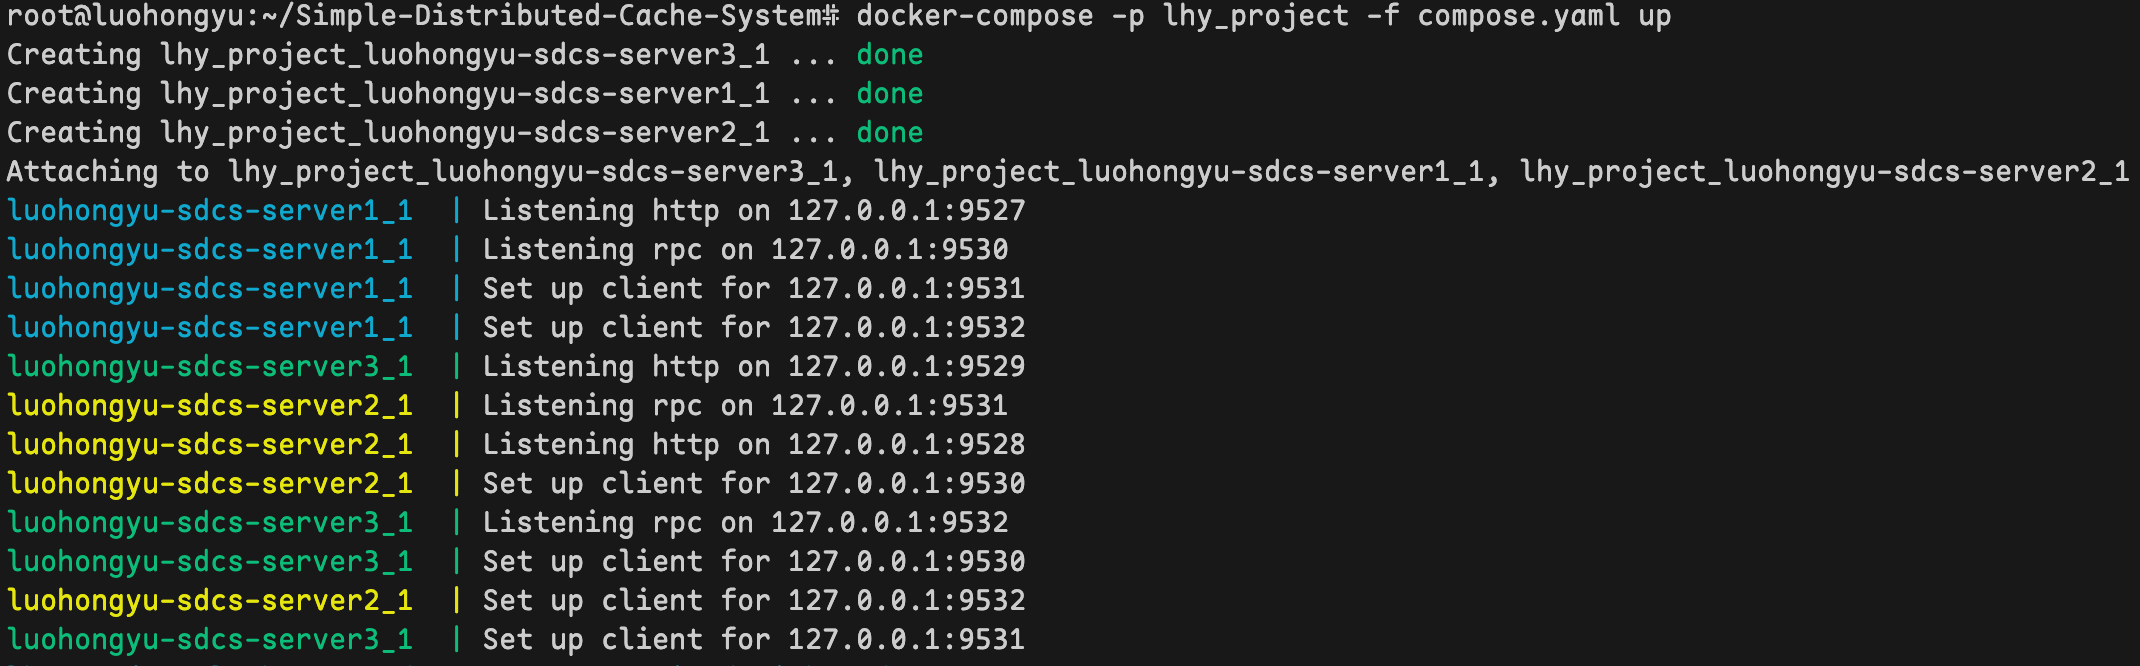
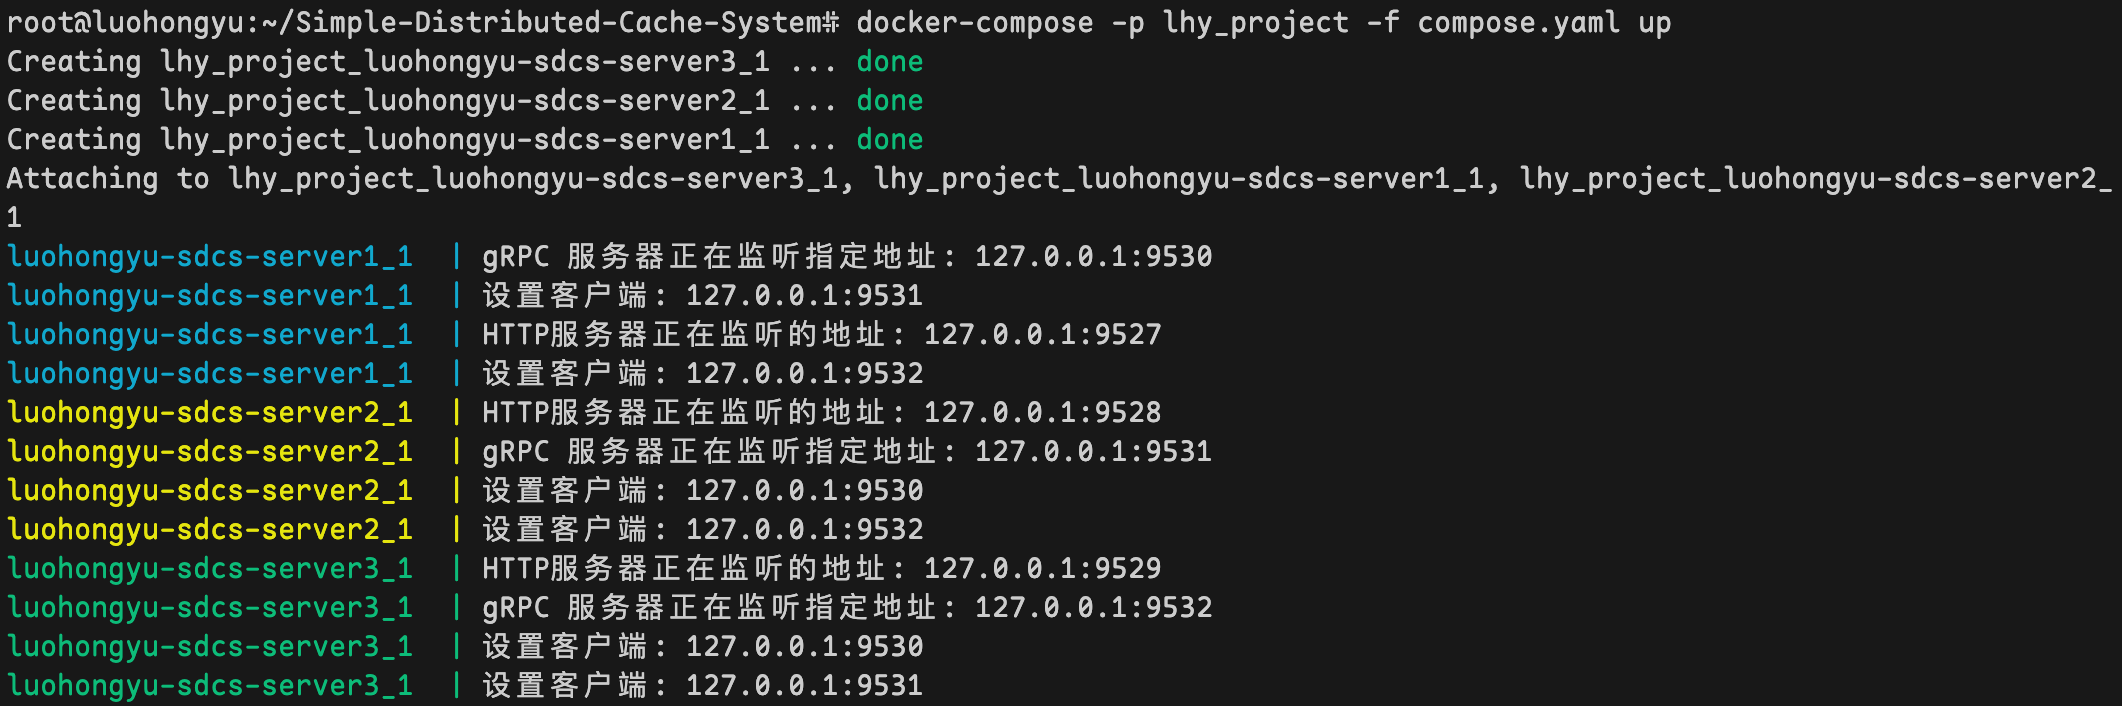
style:update some info

Changed region(s): [[0.0, 0.0, 0.9953, 0.991]]

diff --git a/server.go b/server.go
@@ -31,15 +31,15 @@ func setupClient() {
 	// 使用 opts 和 address[2] 连接到指定的 gRPC 服务器。将返回的连接对象赋值给 conn[0]
 	conn[0], err = grpc.Dial(address[2], opts...)
 	if err != nil {
-		fmt.Printf("fail to dial: %v", err)
+		fmt.Printf("dial失败: %v", err)
 	}
-	fmt.Println("Set up client for", address[2])
+	fmt.Println("设置客户端:", address[2])
 	// 使用 opts 和 address[3] 连接到指定的 gRPC 服务器。将返回的连接对象赋值给 conn[1]
 	conn[1], err = grpc.Dial(address[3], opts...)
 	if err != nil {
-		fmt.Printf("fail to dial: %v", err)
+		fmt.Printf("dial失败: %v", err)
 	}
-	fmt.Println("Set up client for", address[3])
+	fmt.Println("设置客户端:", address[3])
 	// 使用 pb.NewCacheClient() 创建两个 pb.CacheClient 类型的客户端对象，并将其赋值给 client[0] 和 client[1]
 	client[0] = pb.NewCacheClient(conn[0])
 	client[1] = pb.NewCacheClient(conn[1])
@@ -55,7 +55,7 @@ func CacheGet(client pb.CacheClient, req *pb.GetRequest) *pb.GetReply {
 	// 发送 Get 请求
 	GetReply, err := client.GetCache(ctx, req)
 	if err != nil {
-		fmt.Println("client.GetCache failed.")
+		fmt.Println("client.GetCache 失败")
 		return GetReply
 	}
 	return GetReply
@@ -68,7 +68,7 @@ func CachePost(client pb.CacheClient, req *pb.PostRequest) *pb.PostReply {
 	// 发送 Post 请求
 	PostReply, err := client.PostCache(ctx, req)
 	if err != nil {
-		fmt.Println("client.PostCache failed.")
+		fmt.Println("client.PostCache 失败")
 		return PostReply
 	}
 	return PostReply
@@ -81,7 +81,7 @@ func CacheDelete(client pb.CacheClient, req *pb.DeleteRequest) *pb.DeleteReply {
 	// 发送 Delete 请求
 	DeleteReply, err := client.DeleteCache(ctx, req)
 	if err != nil {
-		fmt.Println("client.DeleteCache failed.")
+		fmt.Println("client.DeleteCache 失败")
 		return DeleteReply
 	}
 	return DeleteReply
@@ -109,7 +109,7 @@ func setAddress() {
 		address[2] = "127.0.0.1:9530"
 		address[3] = "127.0.0.1:9531"
 	} else {
-		fmt.Println("only 3 cacheserver.")
+		fmt.Println("只有3个缓存服务器.")
 	}
 }
 
@@ -295,22 +295,22 @@ func startHttpServer() {
 	// 当HTTP请求的路径为"/"时，将调用handleHttpRequest函数来处理该请求
 	http.HandleFunc("/", handleHttpRequest)
 	// HTTP服务器正在监听的地址
-	fmt.Println("Listening http on", address[0])
+	fmt.Println("HTTP服务器正在监听的地址:", address[0])
 	// 启动HTTP服务器并开始监听指定的地址
 	err := http.ListenAndServe(address[0], nil)
 	if err != nil {
-		fmt.Println("Listten failed:", err)
+		fmt.Println("监听失败:", err)
 	}
 }
 
 // 启动 gRPC 服务器
 func startRpcServer() {
 	// gRPC 服务器正在监听指定地址
-	fmt.Println("Listening rpc on", address[1])
+	fmt.Println("gRPC 服务器正在监听指定地址:", address[1])
 	// 创建一个 TCP 监听器 lis，该监听器用于接收客户端的连接请求
 	lis, err := net.Listen("tcp", address[1])
 	if err != nil {
-		log.Fatalf("failed to listen: %v", err)
+		log.Fatalf("监听失败: %v", err)
 	}
 	// 函数创建一个 gRPC 服务器实例 grpcServer。通过传入 opts 切片作为参数，可以指定服务器的选项
 	var opts []grpc.ServerOption
@@ -325,7 +325,7 @@ func startRpcServer() {
 func main() {
 	// 检查命令行参数的数量是否为2
 	if len(os.Args) != 2 {
-		fmt.Println("please specify server index(1-3).")
+		fmt.Println("请指定服务器(1-3)")
 		return
 	}
 	// 设置服务器的地址

diff --git a/README.md b/README.md
@@ -23,30 +23,35 @@ bash sdcs-test.sh 3
 ```
 
 # Deploy
-1.在当前目录的上级目录中寻找 Dockerfile 文件，然后使用该 Dockerfile 构建一个名为 luohongyu_sdcs_server 版本为 v1.0 的 Docker 镜像:  
+1.编译项目
+```
+go build -o ./Simple-Distributed-Cache-System server.go
+```  
+
+2.在当前目录的上级目录中寻找 Dockerfile 文件，然后使用该 Dockerfile 构建一个名为 luohongyu_sdcs_server 版本为 v1.0 的 Docker 镜像:  
 ```
 docker build -f Dockerfile -t luohongyu_sdcs_server:v1.0 ..  
 ```
 
-2.列出 Docker 镜像  
+3.列出 Docker 镜像  
 ```
 docker images
 ```  
 ![Alt text](./images/image-4.png)
 
-3.使用名为 compose.yaml 的配置文件启动一个容器服务，并为该服务指定项目名称为 lhy_project:  
+4.使用名为 compose.yaml 的配置文件启动一个容器服务，并为该服务指定项目名称为 lhy_project:  
 ```
 docker-compose -p lhy_project -f compose.yaml up 
 ``` 
 ![Alt text](./images/image.png)
 
-4.新开一个终端运行测试脚本:  
+5.新开一个终端运行测试脚本:  
 ```
 bash sdcs-test.sh 3
 ```
 ![Alt text](./images/image-1.png)
 
-5.使用名为 compose.yaml 的配置文件停止并删除一个容器服务，并为该服务指定项目名称为 lhy_project: 
+6.使用名为 compose.yaml 的配置文件停止并删除一个容器服务，并为该服务指定项目名称为 lhy_project: 
 ``` 
 docker-compose -p lhy_project -f compose.yaml down
 ```
